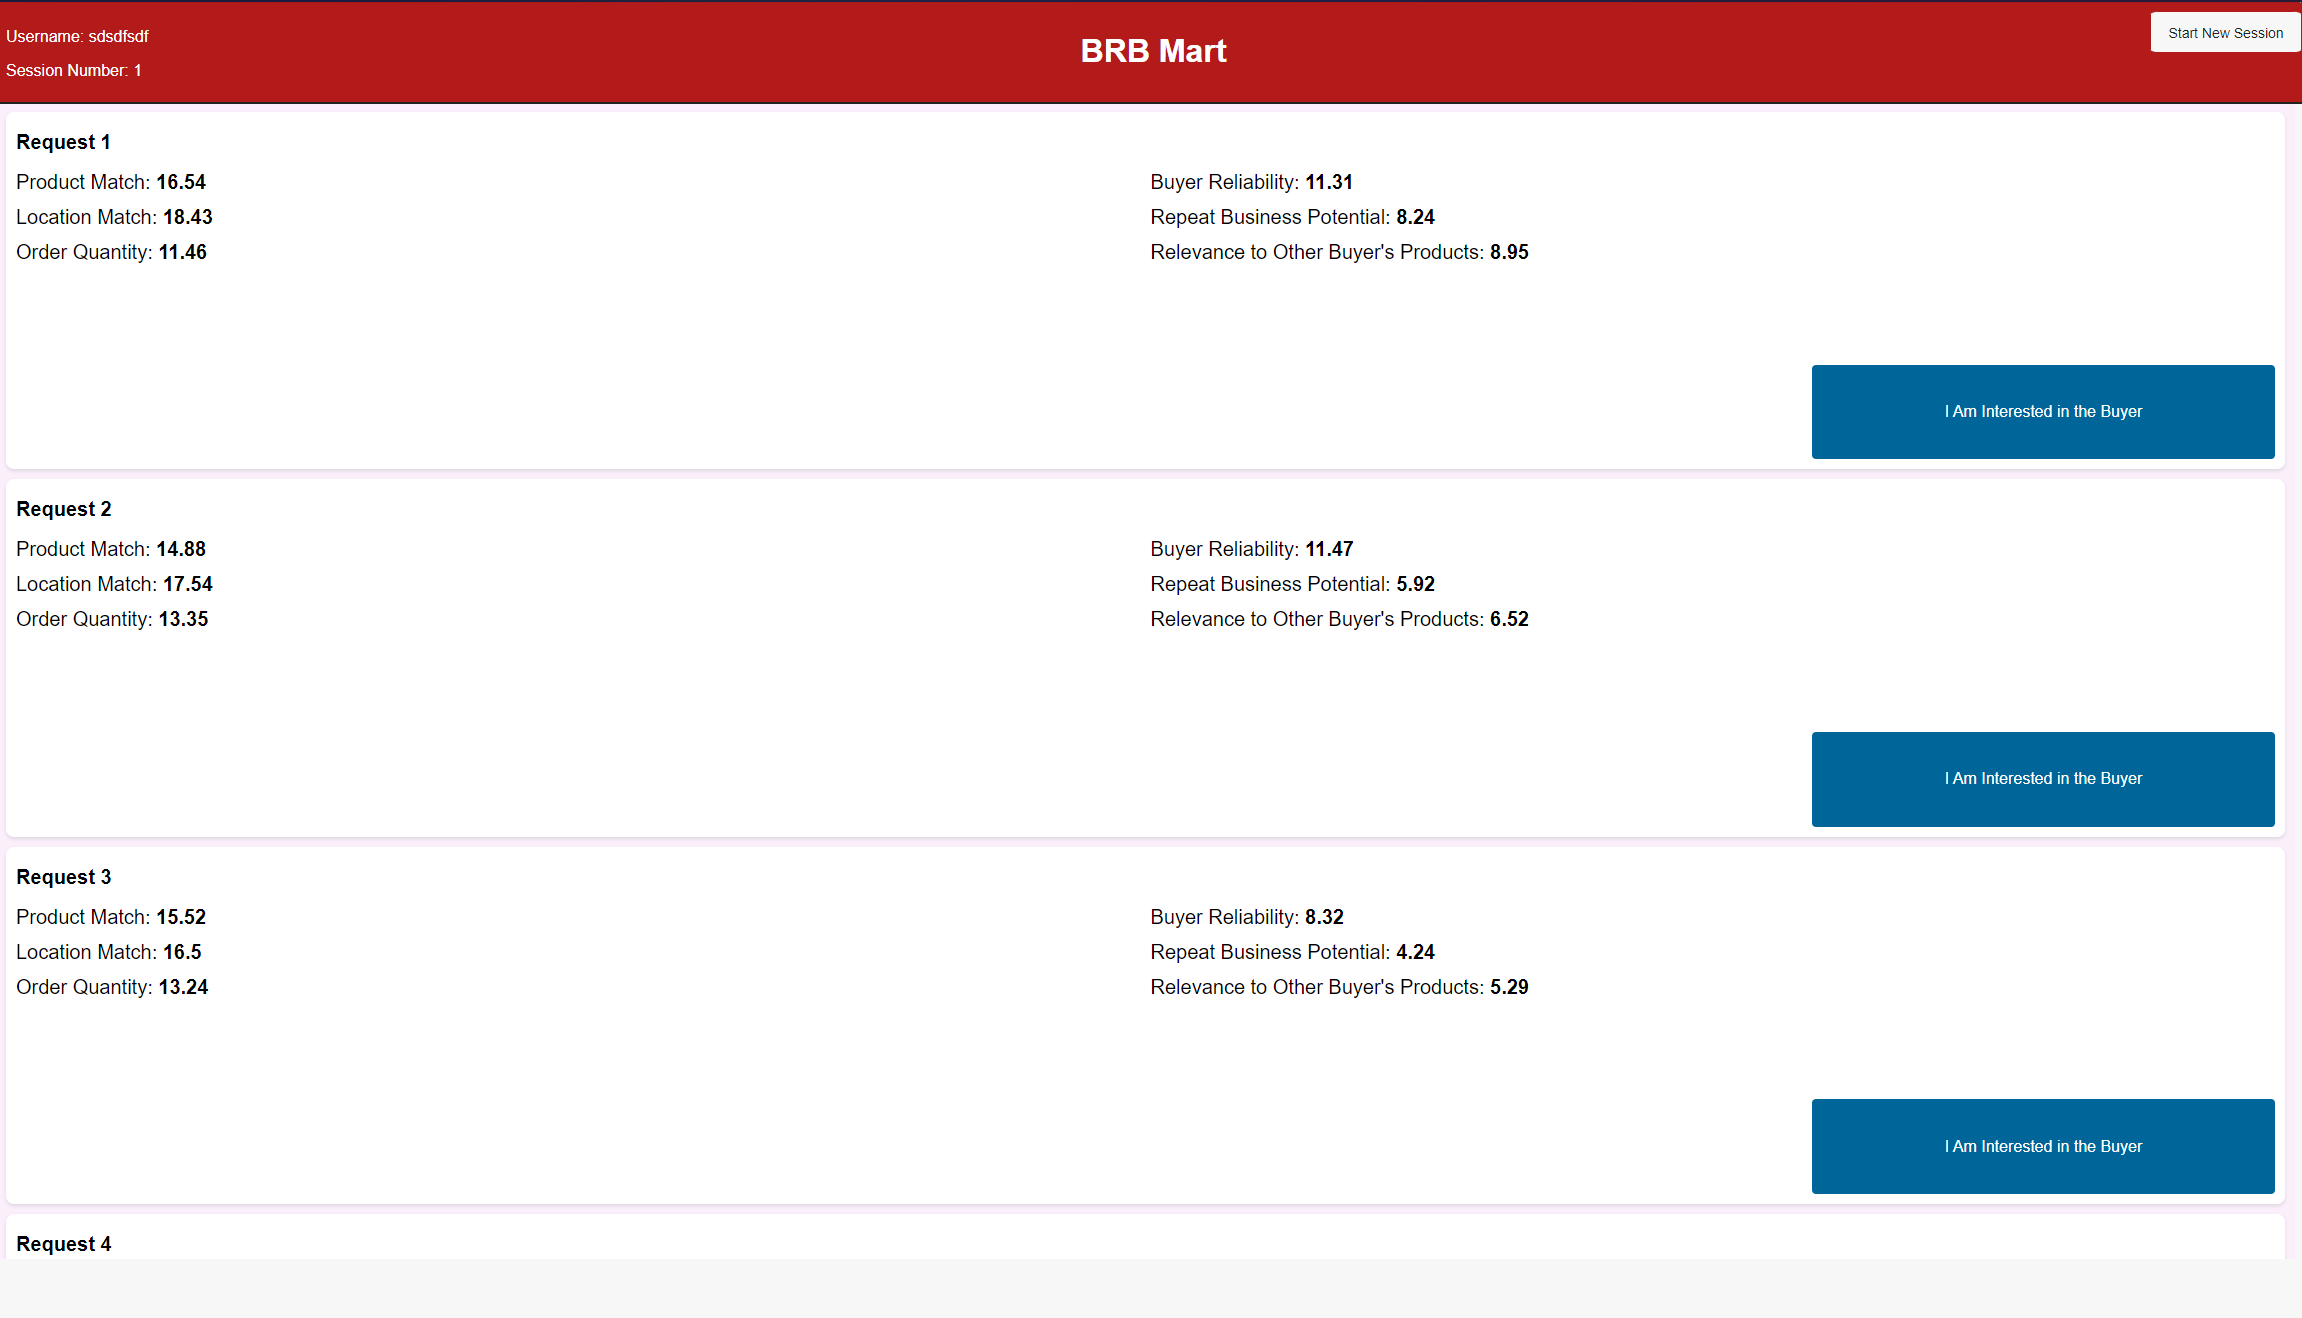
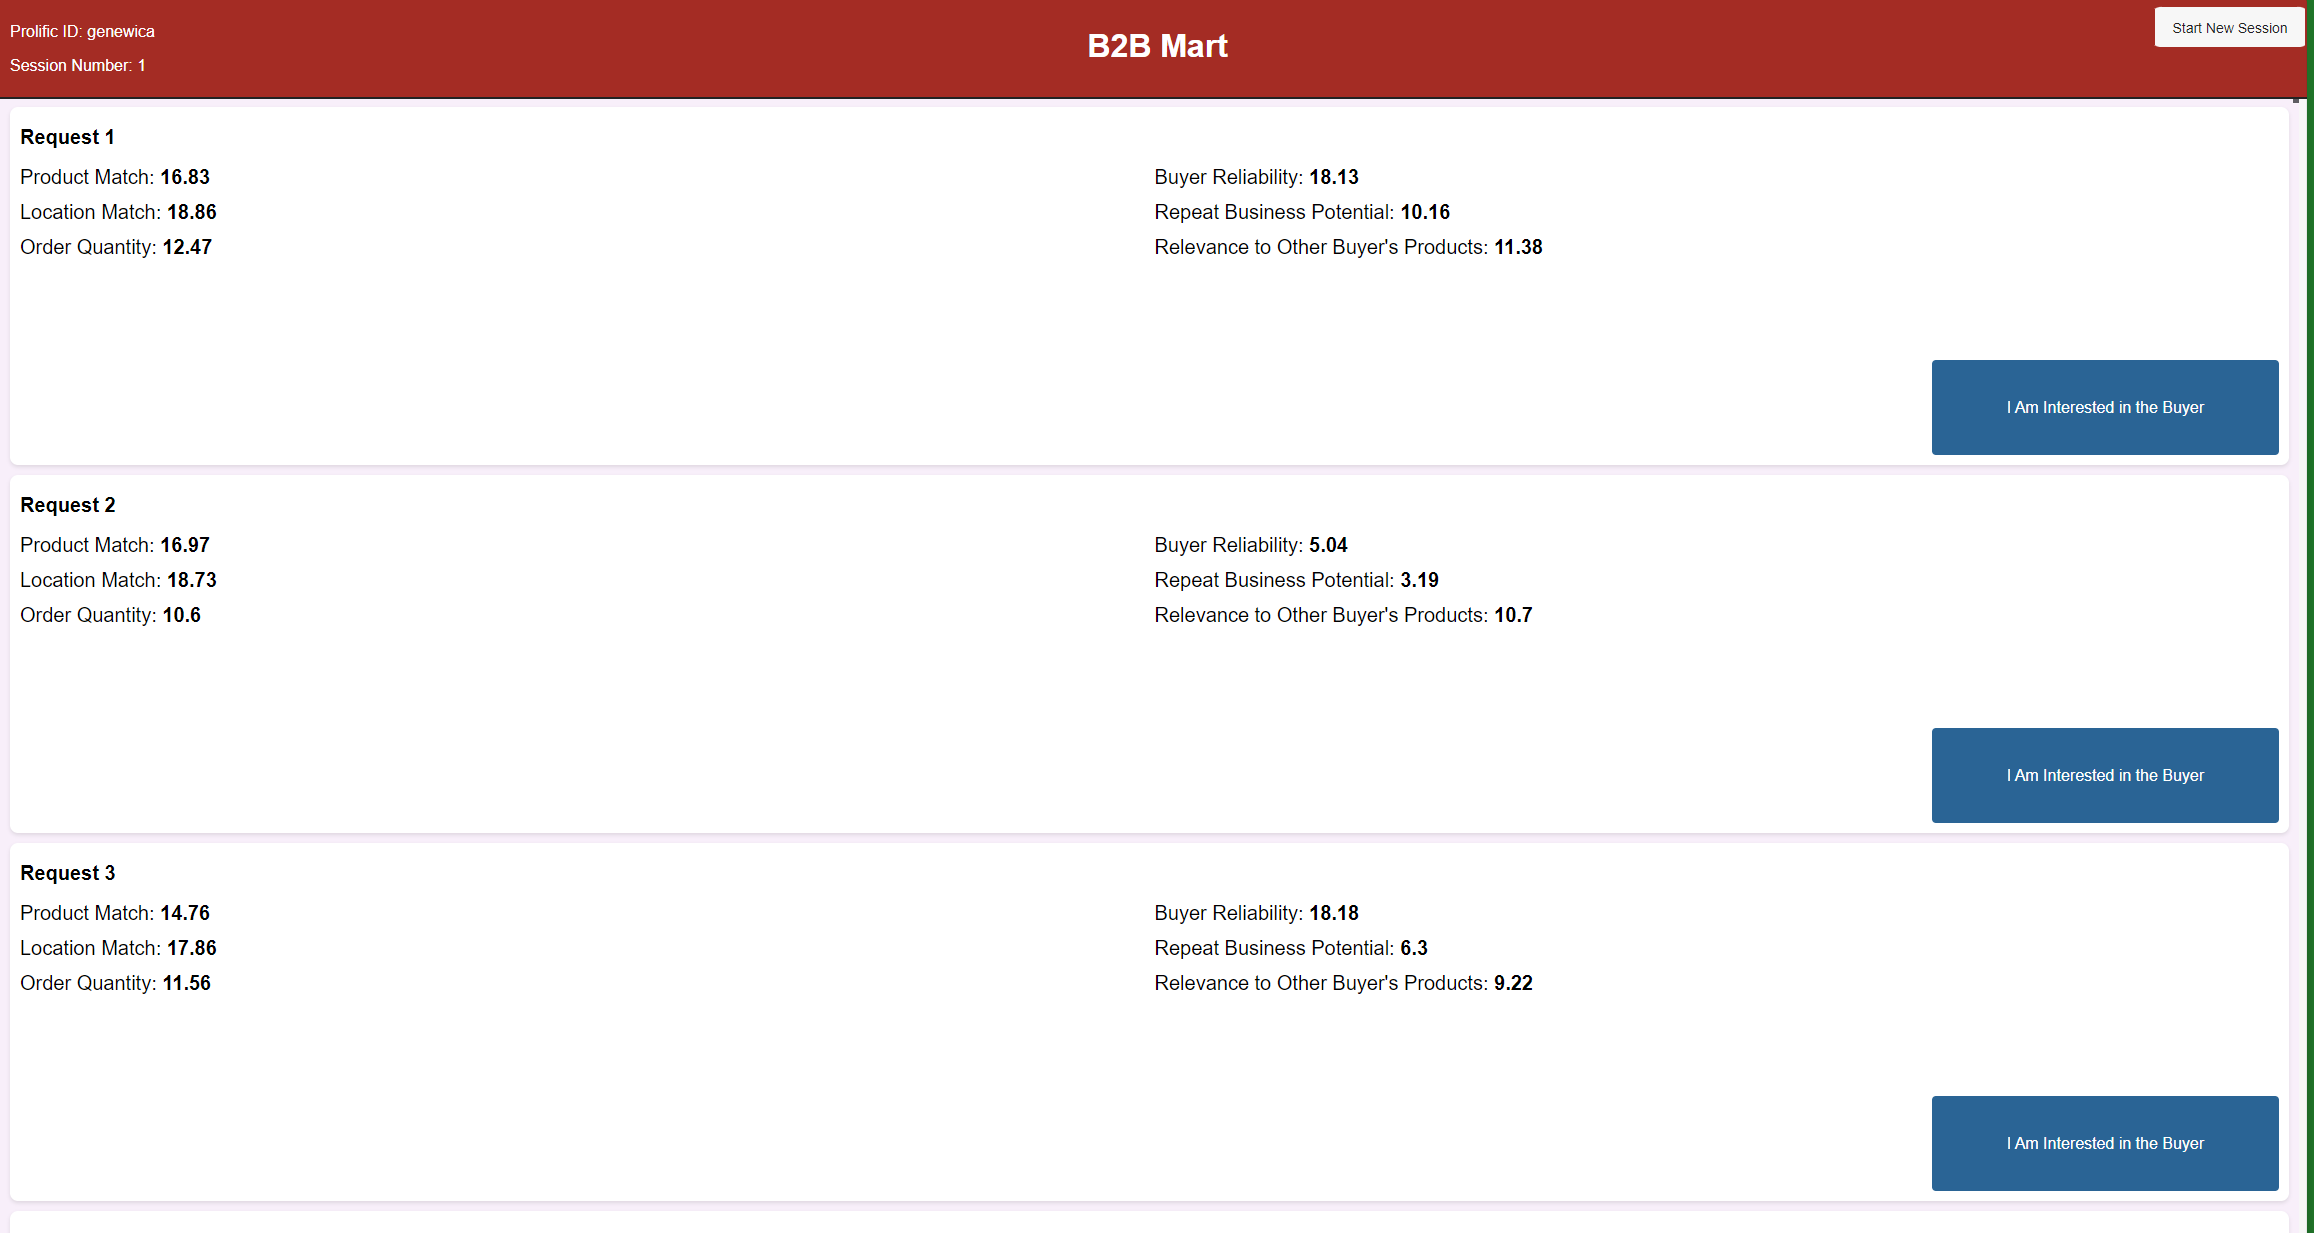
final changes

diff --git a/app/templates/startpage.html b/app/templates/startpage.html
@@ -30,7 +30,7 @@
     </style>
 </head>
 <body>
-    <h1>Welcome to the Scroll Nudge Experiment</h1>
+    <h1>Welcome to the Browsing Behavior Experiment</h1>
     <p>Thank you for choosing to participate in the experiment. Below are the details of what to expect from it.</p>
 
     <p>This experiment requires you to don the role of an owner of a small manufacturing company who wants
@@ -43,21 +43,21 @@
     <p>On your screen, you will find the relevance of each buyer request to your business scored on six
     dimensions – (i) product relevance, (ii) location relevance, (iii) order quantity, (iv) buyer reliability, (v)
     potential for future business, and (vi) other products from the buyer. If the total score from all six
-    dimensions exceeds 72, the request is fit for your business, and you may click the <span class="highlight">“I am Interested in the Buyer”</span>
+    dimensions exceeds <span class="highlight">72</span>, the request is fit for your business, and you may click the <span class="highlight">“I am Interested in the Buyer”</span>
     button.</p>
 
-    <p>You are asked to play 9 rounds. In each round, your goal is to find buyer requests that are relevant to
-    your business, i.e., find requests where the total score exceeds 72. In order to help you find the requests
+    <p>You are asked to play <span class="highlight">9</span> rounds. In each round, your goal is to find buyer requests that are relevant to
+    your business, i.e., find requests where the total score exceeds <span class="highlight">72</span>. In order to help you find the requests
     quickly, the platform attempts to rank requests in descending order of value but may not always
     succeed in ranking the requests accurately. At any point in the round, you may choose to end the
     current round and start a new round by clicking the <span class="highlight">“Start New Session”</span> button at the top of the page.</p>
 
     <p class="note">Clicking this button would display a new list of buyer requests. However, we recommend you to view at
-    least the top 30 buyer requests in each round before clicking the Start New Session button.</p>
+    least the top <span class="highlight">30</span> buyer requests in each round before clicking the Start New Session button.</p>
 
-    <p>You will be provided a fixed compensation of $2 to participate and a variable compensation of $0.2 for
+    <p>You will be provided a fixed compensation of <span class="highlight">$2</span> to participate and a variable compensation of <span class="highlight">$0.20</span> for
     every relevant buyer request you find at the end of all 9 rounds. If you click on the select button when
-    the total value is less than 72, there will be a screen freeze for 10 seconds.</p>
+    the total value is less than 72, there will be a <span class="highlight">screen freeze for 10 seconds</span></p>
 
     <p>On the next page, you will see three multiple choice questions to recap the experiment and your task.
     Please answer all of them accurately to participate.</p>

diff --git a/app/templates/assessment.html b/app/templates/assessment.html
@@ -82,7 +82,7 @@
         </div>
         
         <div class="question">
-            <span>4. What is the recommended number of requests to view? <span class="note">(Note: Include this only on the link for scroll nudges)</span></span>
+            <span>4. What is the recommended number of requests to view?</span>
             <div class="options">
                 <label><input type="radio" name="q4" value="20"> a. 20</label>
                 <label><input type="radio" name="q4" value="30"> b. 30</label>

diff --git a/app/templates/experiment.html b/app/templates/experiment.html
@@ -11,7 +11,7 @@
             <p>Prolific ID: {{ user_id }}</p>
             <p>Session Number: {{ run_number }}</p>
         </div>
-        <h1>BRB Mart</h1>
+        <h1>B2B Mart</h1>
         <button id="refresh-button" class="refresh-button">Start New Session</button>
     </div>
 

diff --git a/README.md b/README.md
@@ -79,7 +79,7 @@
 <!-- ABOUT THE PROJECT -->
 ## About The Project
 
-![alt text](image-2.png)
+![alt text](app/static/images/page.png)
 
 Context: The paper aims to study how ranking quality affects seller behavior on a B2B platform. The platform arranges buyer requests sequentially on a seller’s log in page. When the seller logs in, they view requests sequentially starting from the top and click on a button called “contact buyer” if they want to transact with the buyer. The platform generates revenue from the number of times the seller clicks on the “contact buyer” button. The platform is making investments to improve ranking quality, i.e., it wants to show buyer requests that have the highest value to the seller at the top of the page.
 
